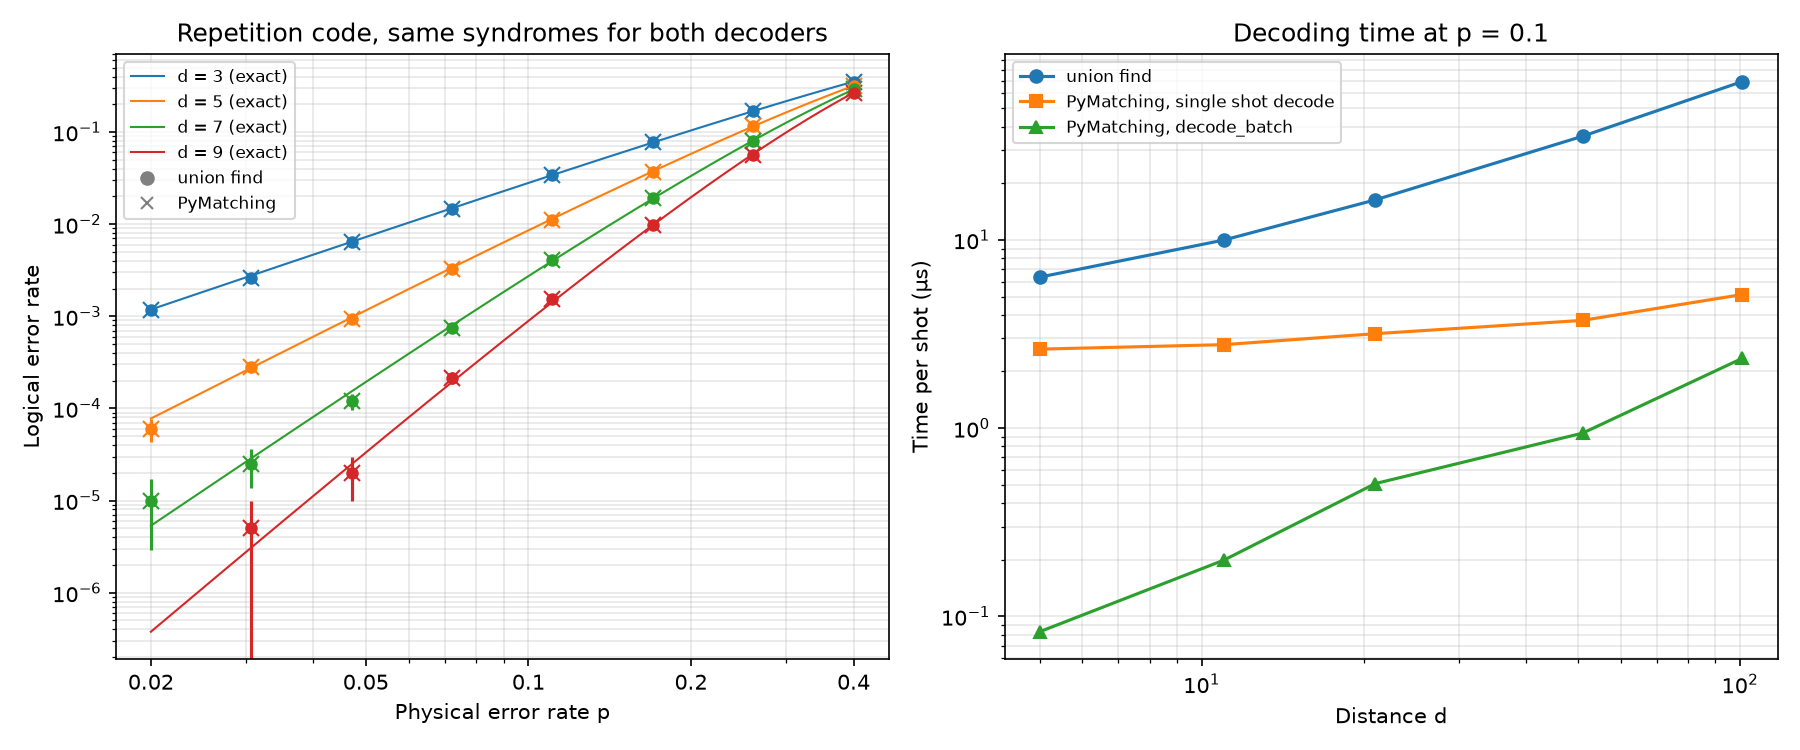
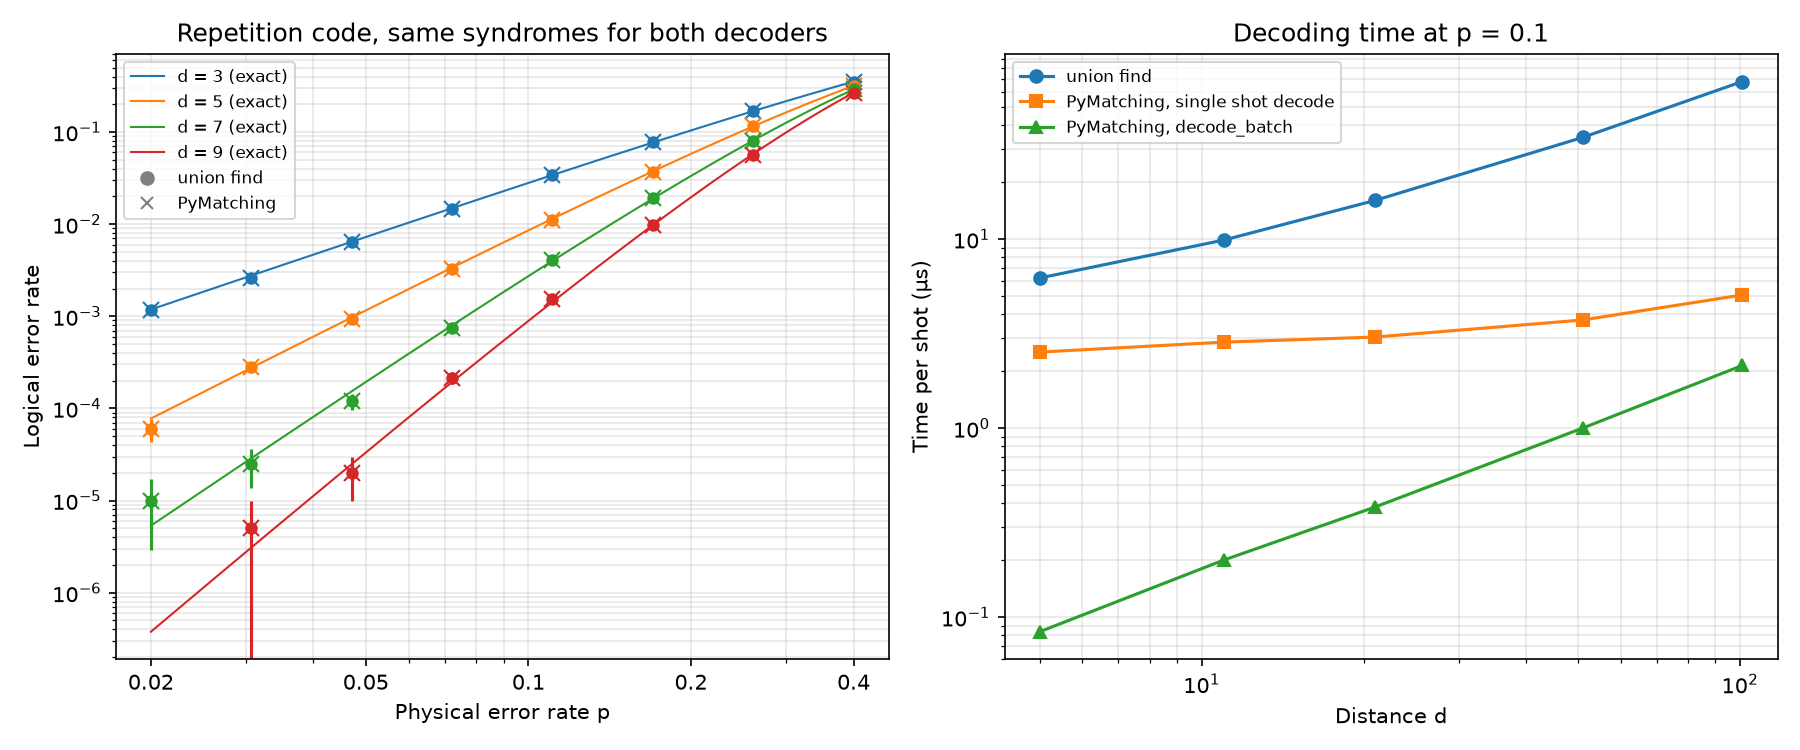
Update README with union find decoder

diff --git a/scripts/uf_benchmark.py b/scripts/uf_benchmark.py
@@ -61,10 +61,17 @@ for d in acc_distances:
               f"mismatches = {mismatches}  ({time.time() - start:.0f}s)")
 
 
+TIMING_REPEATS = 5
+
+
 def per_shot_us(fn, synd):
-    t = time.perf_counter()
-    fn(synd)
-    return (time.perf_counter() - t) / len(synd) * 1e6
+    # median over several runs, since a single timing is noisy
+    times = []
+    for _ in range(TIMING_REPEATS):
+        t = time.perf_counter()
+        fn(synd)
+        times.append((time.perf_counter() - t) / len(synd) * 1e6)
+    return np.median(times)
 
 
 # speed: per shot time at fixed p

diff --git a/README.md b/README.md
@@ -1,9 +1,6 @@
 # qec-decoding
 
-Simulations of the repetition code and the rotated surface code, with threshold
-estimates from Monte Carlo sampling. The surface code study uses Stim and
-PyMatching, and also measures how the threshold changes when measurement error
-is larger than gate error.
+Simulations of the repetition code and the rotated surface codem and a union find decoder written for this project. The surface code study uses Stim and PyMatching to estimate thresholds, including how the threshold changes when measurement error is larger than gate error. The union find decoder is benchmarked against PyMatching on the repetition code.
 
 ## Motivation
 
@@ -103,6 +100,24 @@ increase in gate error would.
 
 The 0.5 and 1 results differ by less than 0.02 percentage points, which is about 1σ of shot noise, so they are within noise of each other.
 
+### (d) Union find decoder
+
+A union find decoder for nthe repetion code, in src/union_find.py, src/uf_decoder.py and src/peeling.py. Clusters grow around each defect and merge until each one holds an even number of defects or reaches the boundary, then peeling picks the correction inside each cluster.
+
+**Accuracy.** It chose the same correction as PyMatching on all 6.4 million sampled shots (d = 3 to 9, p = 0.02 to 0.4) and on every possible syndrome for d = 3 to 11, and both match the exact formula from (a). This is the easy case, since minimum weight decoding is optimal for this code. On the surface code, union find is expected to lose a little accuracy to matching.
+
+**Speed.** Median time per shot over 5 runs, at p = 0.1:
+
+| d | Union find | PyMatching, single call | PyMatching, batch |
+|---|---|---|---|
+| 5 | 6.2 µs | 2.5 µs | 0.08 µs |
+| 21 | 16.0 µs | 3.0 µs | 0.38 µs |
+| 101 | 68.2 µs | 5.1 µs | 2.15 µs |
+
+Union find time grows roughly linearly with d. PyMatching is about 2 to 13 times faster per call and 30 to 80 times faster in batch, mostly because it is optimised C++, while this decoder is pure Python and rebuilds its graph on every call.
+
+![Union find against PyMatching: accuracy and time per shot](figures/uf_benchmark.png)
+
 ## Running it
 
 Tested with Python 3.11.
@@ -117,6 +132,7 @@ pytest
 python scripts/plot_repetition.py     # figures/repetition_threshold.png
 python scripts/surface_threshold.py   # results/surface_threshold.csv, figures/surface_threshold.png
 python scripts/measurement_study.py   # results/measurement_study.csv, figures/measurement_study.png
+python scripts/uf_benchmark.py        # results/uf_benchmark.csv, figures/uf_benchmark.png
 python scripts/readme_numbers.py      # numbers quoted above, read from results/
 ```
 
@@ -137,12 +153,11 @@ Elsewhere, results should agree within shot noise.
 
 - Simulation only. Nothing here has been run on hardware.
 - The noise model is uniform: a single p for all gates, resets and idling. The only variation is the readout ratio in (c).
-- The surface code decoder is PyMatching, a library decoder, not one written for this project.
+- The surface code results use PyMatching. The union find decoder written for this porject so far handles only rhe repetition code with perfect measurements.
+- Union fidn timings are pure Python and inckude rebuilding the graph on every call.
 - The distances are small (d ≤ 7), and crossings between small codes move with distance, so the thresholds are finite size estimates.
 - Logical error rates are per d rounds, not per round, so they are not directly comparable with per round figures.
 
 ## Next steps
 
-Planned: a union find decoder written for this project, benchmarked against
-PyMatching on the same circuits for accuracy (logical error rates and
-threshold) and speed (decoding time per shot).
+Extend the union find decoder to measurement errors, using the detector error model Stim generates for a repetition code memory experiment, them to the rotated surface code, and compare its threshold and speed with PyMatching on the same circuits.
